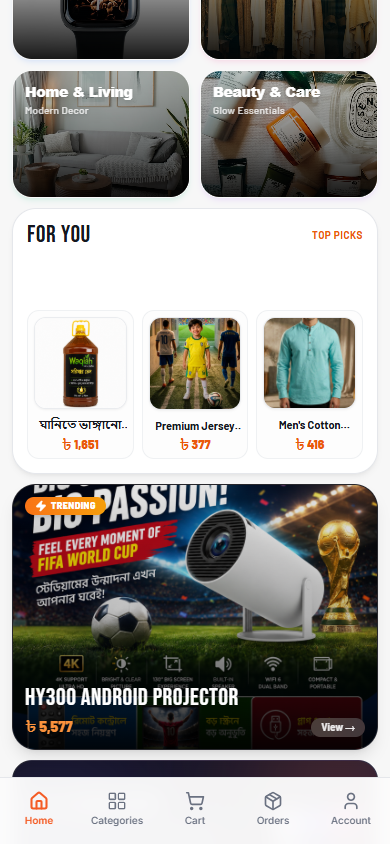
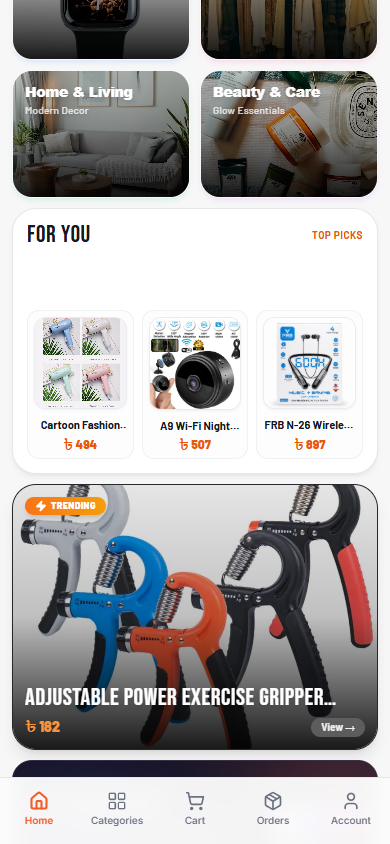
feat: implement smart unique personalization algorithm for FOR YOU section based on user browsing history and category diversity

diff --git a/src/components/home/HeroBento.tsx b/src/components/home/HeroBento.tsx
@@ -145,6 +145,84 @@ function validUrl(url?: string, fallback = ""): string {
   return fallback;
 }
 
+function normalizeKeyword(str: string): string {
+  const s = str.toLowerCase();
+  if (s.includes("bra") || s.includes("panties") || s.includes("underwear") || s.includes("lingerie") || s.includes("inner")) return "underwear";
+  if (s.includes("watch") || s.includes("smartwatch") || s.includes("ghori")) return "watch";
+  if (s.includes("shirt") || s.includes("t-shirt") || s.includes("panjabi") || s.includes("polo") || s.includes("jersey") || s.includes("pant") || s.includes("gabardine") || s.includes("trouser") || s.includes("khimar") || s.includes("palazzo") || s.includes("dress") || s.includes("clothing") || s.includes("fashion")) return "fashion";
+  if (s.includes("earbud") || s.includes("headphone") || s.includes("earphone") || s.includes("speaker") || s.includes("audio") || s.includes("sound")) return "audio";
+  if (s.includes("lamp") || s.includes("light") || s.includes("fan") || s.includes("projector") || s.includes("mouse") || s.includes("keyboard") || s.includes("router") || s.includes("cable") || s.includes("charger") || s.includes("dispenser") || s.includes("gadget") || s.includes("electronic")) return "gadgets";
+  if (s.includes("cream") || s.includes("oil") || s.includes("serum") || s.includes("lotion") || s.includes("soap") || s.includes("shampoo") || s.includes("skincare") || s.includes("beauty")) return "beauty";
+  if (s.includes("pillow") || s.includes("decor") || s.includes("mug") || s.includes("bottle") || s.includes("kitchen") || s.includes("home") || s.includes("living")) return "home";
+  return s.replace(/[^a-z0-9]/g, "").slice(0, 8);
+}
+
+function getSmartPersonalizedForYou(candidates: Product[]): Product[] {
+  if (!candidates || candidates.length === 0) return [];
+
+  // Read user preference categories and browsing history from localStorage
+  let userInterests: string[] = [];
+  try {
+    if (typeof window !== "undefined") {
+      const viewedCats = localStorage.getItem("user_viewed_categories");
+      if (viewedCats) {
+        const arr = JSON.parse(viewedCats);
+        if (Array.isArray(arr)) {
+          userInterests.push(...arr.map((c: string) => normalizeKeyword(String(c))));
+        }
+      }
+      const viewedProds = localStorage.getItem("recently_viewed_products");
+      if (viewedProds) {
+        const arr = JSON.parse(viewedProds);
+        if (Array.isArray(arr)) {
+          userInterests.push(...arr.map((p: any) => normalizeKeyword(p.name || p.title || p.category || "")));
+        }
+      }
+    }
+  } catch {}
+
+  const seenIds = new Set<string>();
+  const seenTypes = new Set<string>();
+  const selected: Product[] = [];
+
+  // 1. First priority: Pick unique, distinct products matching user's top viewed categories
+  if (userInterests.length > 0) {
+    for (const p of candidates) {
+      if (selected.length >= 3) break;
+      const type = normalizeKeyword(p.name + " " + ((p as any).category || ""));
+      if (!seenIds.has(p.id) && !seenTypes.has(type)) {
+        if (userInterests.some((ui) => ui && (type.includes(ui) || ui.includes(type)))) {
+          seenIds.add(p.id);
+          seenTypes.add(type);
+          selected.push(p);
+        }
+      }
+    }
+  }
+
+  // 2. Second priority: Fill remaining slots with completely unique products from DIFFERENT categories
+  for (const p of candidates) {
+    if (selected.length >= 3) break;
+    const type = normalizeKeyword(p.name + " " + ((p as any).category || ""));
+    if (!seenIds.has(p.id) && !seenTypes.has(type)) {
+      seenIds.add(p.id);
+      seenTypes.add(type);
+      selected.push(p);
+    }
+  }
+
+  // 3. Fallback: If still not enough, pick by ID deduplication
+  for (const p of candidates) {
+    if (selected.length >= 3) break;
+    if (!seenIds.has(p.id)) {
+      seenIds.add(p.id);
+      selected.push(p);
+    }
+  }
+
+  return selected;
+}
+
 function HeroBentoComponent({ forYou = [], flashSale = [], trending = [] }: HeroBentoProps) {
   const countdown = useCountdown(30);
   const isMobile = useIsMobile();
@@ -161,12 +239,10 @@ function HeroBentoComponent({ forYou = [], flashSale = [], trending = [] }: Hero
   activeTiles.forEach((t) => (tileMap[t.id] = t));
   const customSections = activeSections.filter((s) => s.visible !== false);
 
-
   const isVisible = (id: string) => tileMap[id]?.visible !== false;
   const cfg = (id: string): BentoTileCfg => tileMap[id] ?? { id, visible: true };
 
-
-  const forYouItems = forYou.slice(0, 3);
+  const forYouItems = getSmartPersonalizedForYou(forYou);
   const flashItems = flashSale.slice(0, 2);
   const trend = trending[0];
 

diff --git a/src/pages/ProductDetail.tsx b/src/pages/ProductDetail.tsx
@@ -206,6 +206,26 @@ export default function ProductDetail() {
     return getSmartProductImage(product?.name || "", fullUrl, product?.category_id || "");
   };
 
+  const recordUserProductView = (p: any) => {
+    if (typeof window === "undefined" || !p) return;
+    try {
+      const cat = p.category_id || p.category_slug || p.category || "";
+      if (cat) {
+        const rawCats = localStorage.getItem("user_viewed_categories");
+        const cats: string[] = rawCats ? JSON.parse(rawCats) : [];
+        const updatedCats = [cat, ...cats.filter((c: string) => c !== cat)].slice(0, 10);
+        localStorage.setItem("user_viewed_categories", JSON.stringify(updatedCats));
+      }
+      const rawProds = localStorage.getItem("recently_viewed_products");
+      const prods: any[] = rawProds ? JSON.parse(rawProds) : [];
+      const updatedProds = [
+        { id: p.id, name: p.name || p.title, slug: p.slug, category: cat, image: p.product_images?.[0]?.image_url || p.image || p.image_url },
+        ...prods.filter((item: any) => item.id !== p.id)
+      ].slice(0, 15);
+      localStorage.setItem("recently_viewed_products", JSON.stringify(updatedProds));
+    } catch {}
+  };
+
   // Get images from product or use defaults
   const rawImgList = product?.product_images && product.product_images.length > 0
     ? product.product_images.map(img => typeof img === "string" ? img : img.image_url)
@@ -412,6 +432,7 @@ export default function ProductDetail() {
                 setProduct(formattedProduct);
                 setSelectedImage(0);
                 trackView(formattedProduct.id);
+                recordUserProductView(formattedProduct);
                 setLoading(false);
                 return;
               }
@@ -497,6 +518,7 @@ export default function ProductDetail() {
             setProduct(data as unknown as Product);
             setSelectedImage(0);
             if (data.id) trackView(data.id);
+            recordUserProductView(data);
             setLoading(false);
             return;
           }

diff --git a/src/pages/CategoryPage.tsx b/src/pages/CategoryPage.tsx
@@ -45,6 +45,16 @@ export default function CategoryPage() {
       };
       setCategory(initialCat);
 
+      // Track viewed category in user preference history
+      if (typeof window !== "undefined" && slug) {
+        try {
+          const raw = localStorage.getItem("user_viewed_categories");
+          const existing: string[] = raw ? JSON.parse(raw) : [];
+          const updated = [slug, ...existing.filter((s: string) => s !== slug)].slice(0, 10);
+          localStorage.setItem("user_viewed_categories", JSON.stringify(updated));
+        } catch {}
+      }
+
       const allMohasagor = await getCachedMohasagorProducts();
       let instantFiltered: Product[] = [];
       if (allMohasagor.length > 0) {
